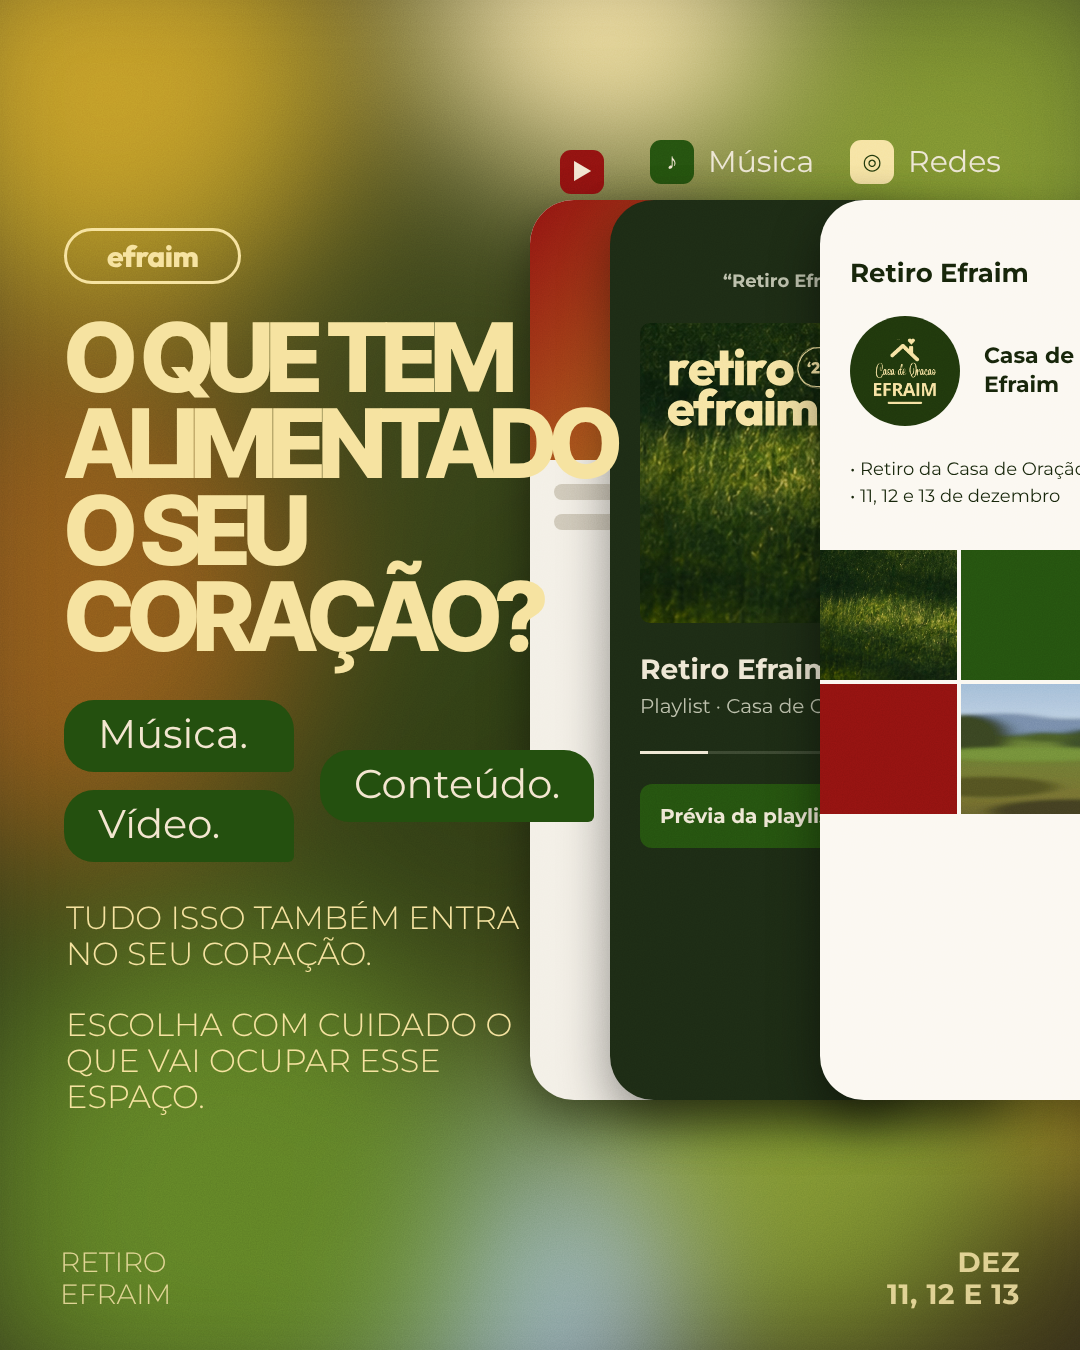
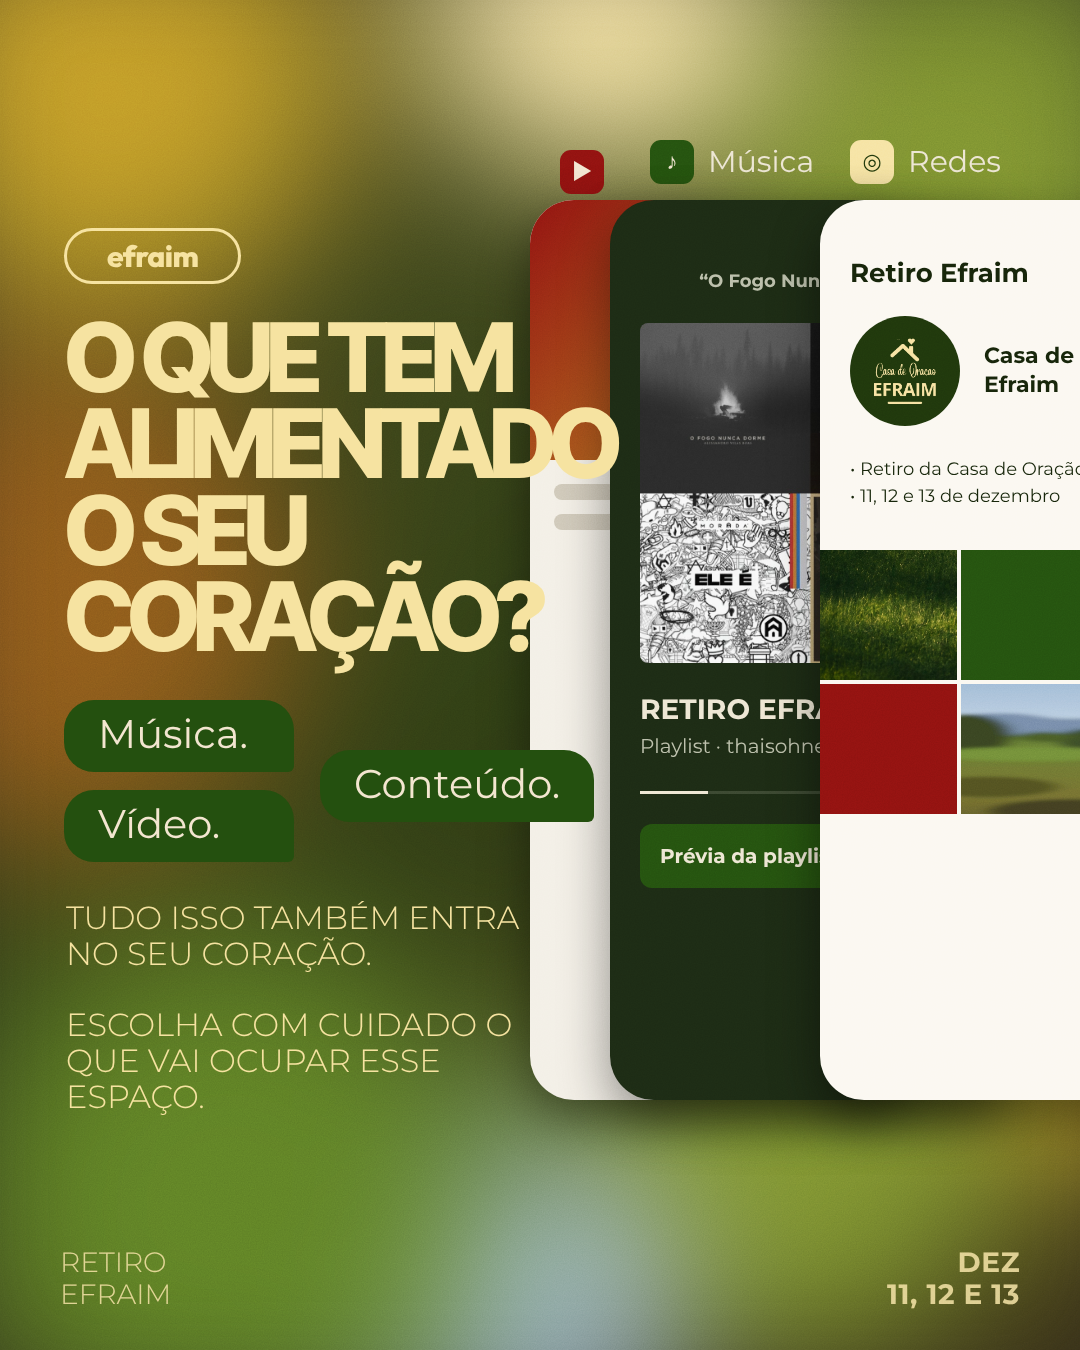
Usa a playlist real RETIRO EFRAIM nos slides 2 e 4
Claude-Session: https://claude.ai/code/session_01LeUD47ZwT7dCEC6s1yGkTC

Changed region(s): [[0.5806, 0.1867, 0.7639, 0.6844]]

diff --git a/retiro-efraim/artes/carrossel-faltam-poucos-dias/02-preparar-o-coracao.html b/retiro-efraim/artes/carrossel-faltam-poucos-dias/02-preparar-o-coracao.html
@@ -7,8 +7,8 @@
 .st i{display:inline-block;width:40px;height:18px;border-radius:5px;background:#EEE8D8}
 .topo{text-align:center;margin-top:62px;font:400 20px/1.3 var(--f-titulo);color:#9A9C92}
 .topo b{display:block;font-weight:700;color:#C9C7BC;text-transform:uppercase;font-size:18px;letter-spacing:.06em}
-.capa{margin-top:40px;border-radius:12px;overflow:hidden;position:relative;height:340px;background:#1F360C url(../../fundos/pasto-feed.jpg) center/cover}
-.capa::after{content:"";position:absolute;inset:0;background:linear-gradient(transparent 40%,rgba(0,0,0,.55))}
+.capa{margin:40px auto 0;border-radius:10px;overflow:hidden;position:relative;width:340px;height:340px;background:#111 url(../../elementos/capa-playlist-retiro-efraim.jpg) center/cover;box-shadow:0 14px 30px rgba(0,0,0,.5)}
+
 .capa img{position:absolute;left:34px;top:40px;width:260px;z-index:1}
 .capa span{position:absolute;left:34px;bottom:30px;z-index:1;font:700 18px/1 var(--f-titulo);letter-spacing:.24em;text-transform:uppercase;color:var(--manteiga)}
 .faixa{margin-top:52px;display:grid;grid-template-columns:30px 1fr 30px;align-items:center;text-align:center}
@@ -24,9 +24,9 @@
   <div class="cel">
     <div class="ilha"></div>
     <div class="st"><span>10:28</span><i></i></div>
-    <div class="topo"><b>Tocando da playlist</b>Retiro Efraim ’26</div>
-    <div class="capa"><img src="../../logo/retiro-efraim-completo-creme.svg" alt=""><span>Playlist</span></div>
-    <div class="faixa"><svg width="26" height="26" viewBox="0 0 24 24" fill="none" stroke="#EEE8D8" stroke-width="2"><path d="M5 12l5 5 9-10"/></svg><div><b>Retiro Efraim ’26</b><small>Casa de Oração Efraim</small></div><span style="font-size:28px;letter-spacing:2px">···</span></div>
+    <div class="topo"><b>Tocando da playlist</b>RETIRO EFRAIM ❤🔥</div>
+    <div class="capa"></div>
+    <div class="faixa"><svg width="26" height="26" viewBox="0 0 24 24" fill="none" stroke="#EEE8D8" stroke-width="2"><path d="M5 12l5 5 9-10"/></svg><div><b>O Fogo Nunca Dorme</b><small>Alessandro Vilas Boas</small></div><span style="font-size:28px;letter-spacing:2px">···</span></div>
     <div class="barra"></div>
     <div class="ctrl">
       <svg width="34" height="34" viewBox="0 0 24 24" fill="none" stroke-width="2"><path d="M3 7h4l10 10h4M3 17h4l10-10h4M18 4l3 3-3 3M18 14l3 3-3 3"/></svg>

diff --git a/retiro-efraim/artes/carrossel-faltam-poucos-dias/04-o-que-tem-alimentado.html b/retiro-efraim/artes/carrossel-faltam-poucos-dias/04-o-que-tem-alimentado.html
@@ -24,9 +24,9 @@
   </div>
   <!-- cartão 2: música -->
   <div class="app" style="left:610px;width:400px;background:#1C2A14;color:#EDE6D2;font-family:var(--f-titulo)">
-    <div style="padding:70px 30px 0;font:600 18px/1.3 var(--f-titulo);text-align:center;color:#B9BDA8">“Retiro Efraim ’26”</div>
-    <div style="margin:30px;height:300px;border-radius:10px;background:#1F360C url(../../fundos/pasto-feed.jpg) center/cover;position:relative"><img src="../../logo/retiro-efraim-sem-tagline-creme.svg" alt="" style="position:absolute;left:24px;top:24px;width:180px"></div>
-    <div style="padding:0 30px;font:700 28px/1.2 var(--f-titulo)">Retiro Efraim ’26<br><span style="font-weight:400;font-size:20px;color:#B9BDA8">Playlist · Casa de Oração Efraim</span></div>
+    <div style="padding:70px 30px 0;font:600 18px/1.3 var(--f-titulo);text-align:center;color:#B9BDA8">“O Fogo Nunca Dorme”</div>
+    <div style="margin:30px;height:340px;border-radius:8px;background:#111 url(../../elementos/capa-playlist-retiro-efraim.jpg) center/cover"></div>
+    <div style="padding:0 30px;font:700 28px/1.2 var(--f-titulo)">RETIRO EFRAIM<br><span style="font-weight:400;font-size:20px;color:#B9BDA8">Playlist · thaisohnezorge · 3h 4m</span></div>
     <div style="margin:30px;height:3px;background:#3A4630;position:relative"><i style="position:absolute;left:0;top:0;bottom:0;width:20%;background:#EDE6D2"></i></div>
     <div style="margin:0 30px;height:64px;border-radius:12px;background:var(--folha);display:flex;align-items:center;padding:0 20px;font:700 20px var(--f-titulo)">Prévia da playlist</div>
   </div>
